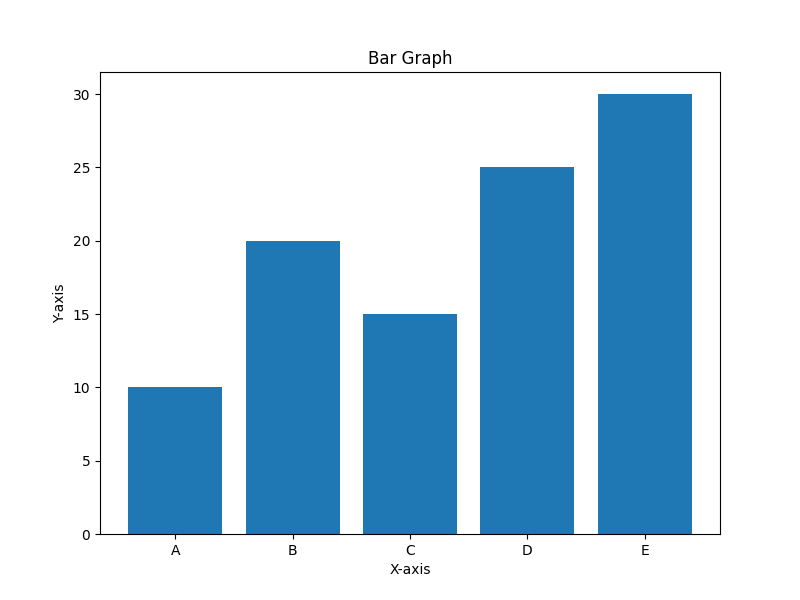
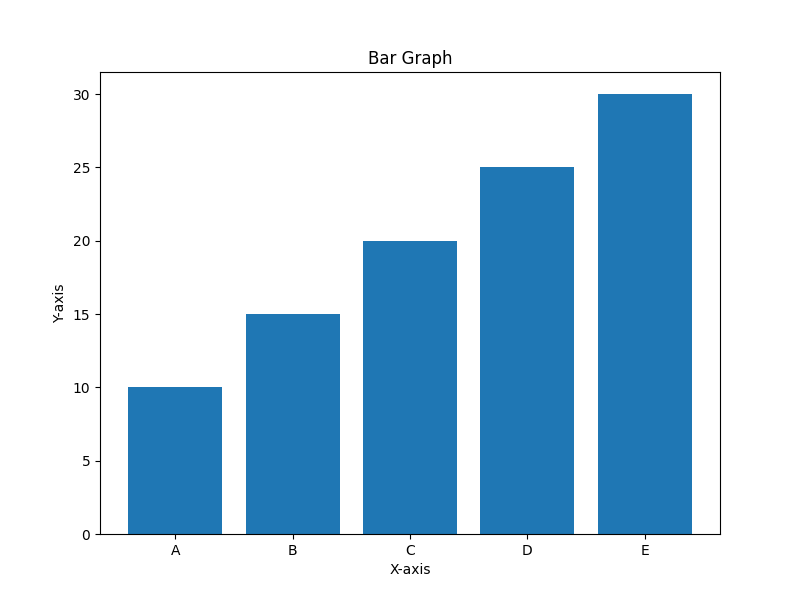
changes made

Changed region(s): [[0.2812, 0.39, 0.5938, 0.54]]

diff --git a/main/abc.py b/main/abc.py
@@ -6,10 +6,10 @@ from reportlab.pdfgen import canvas
 import cv2
 import numpy as np
 import matplotlib.pyplot as plt
+import textacy.extract
 
 # Function to extract text from graph 
 def extract_text(image_file, graph_type):
-
     text = pytesseract.image_to_string(cv2.imread(image_file))
 
     print("Extracted text:", text)
@@ -19,46 +19,49 @@ def extract_text(image_file, graph_type):
 def summarize_bar_graph(text):
     print("Summarizing bar graph...")  
 
+    # Extracting relevant information from text
+    summary_sentences = []
+
+    # Extract numerical values from the text as potential Y-axis values
+    y_axis_values = [int(val) for val in text.split() if val.isdigit()]
+
+    # Extracting categories from the text
+    categories_line = text.split("Bar Graph")[-1].split("Xaxis")[0].strip()
+    categories = [val.strip() for val in categories_line.split()]
+
+    # Check if categories and Y-axis values are extracted successfully
+    if not categories:
+        print("Error: Unable to extract categories from the graph text.")
+        return {
+            "Title": "Bar Graph Summary",
+            "Summary Sentences": ["Unable to extract categories from the graph text."],
+            "Total Sales": None
+        }
+
+    if not y_axis_values:
+        print("Error: Unable to extract valid Y-axis values from the graph text.")
+        return {
+            "Title": "Bar Graph Summary",
+            "Summary Sentences": ["Unable to extract valid Y-axis values from the graph text."],
+            "Total Sales": None
+        }
+
+    # Calculate the total sales
+    total_sales = sum(y_axis_values)
+
+    # Generate summary sentences for each category
+    for i, category in enumerate(categories):
+        summary_sentences.append(f"{category} on the Y-axis is {y_axis_values[i]}")
+
+    summary_sentences.append(f"Total Sales: {total_sales}")
+
     summary_info = {
         "Title": "Bar Graph Summary",
-        "Extracted Text": text,
+        "Summary Sentences": summary_sentences,
     }
 
     return summary_info
 
-# Function to summarize a line graph
-def summarize_line_graph(text):
-    print("Summarizing line graph...")  
-
-    summary_info = {
-        "Title": "Line Graph Summary",
-        "Extracted Text": text,
-    }
-
-    return summary_info
-
-
-# Function to summarize a scatter plot
-def summarize_scatter_plot(text):
-    print("Summarizing scatter plot...")  
-
-    summary_info = {
-        "Title": "Scatter Plot Summary",
-        "Extracted Text": text,
-    }
-
-    return summary_info
-
-# Function to summarize an area graph
-def summarize_area_graph(text):
-    print("Summarizing area graph...")  
-
-    summary_info = {
-        "Title": "Area Graph Summary",
-        "Extracted Text": text,
-    }
-
-    return summary_info
 
 # Function to generate PDF report
 def generate_pdf_report(summary_info, pdf_filename):
@@ -73,8 +76,13 @@ def generate_pdf_report(summary_info, pdf_filename):
 
     # Write the summary information to the PDF
     for key, value in summary_info.items():
-        c.drawString(100, y, f"{key}: {value}")
-        y -= 20  # Move down 20 units for the next line
+        if key == "Summary Sentences":
+            for sentence in value:
+                c.drawString(100, y, sentence)
+                y -= 20  # Move down 20 units for the next line
+        else:
+            c.drawString(100, y, f"{key}: {value}")
+            y -= 20  # Move down 20 units for the next line
 
     # Save the PDF file
     c.save()
@@ -93,16 +101,6 @@ if __name__ == "__main__":
     # Call the appropriate summarization function based on the specified graph type
     if graph_type == "bargraph":
         summary_info = summarize_bar_graph(extracted_text)
-    elif graph_type == "linegraph":
-        summary_info = summarize_line_graph(extracted_text)
-    elif graph_type == "scatterplot":
-        summary_info = summarize_scatter_plot(extracted_text)
-    elif graph_type == "areagraph":
-        summary_info = summarize_area_graph(extracted_text)
     else:
-        print("Invalid graph type. Supported types: bargraph, linegraph, scatterplot, areagraph")
-        sys.exit(1)
-
-    # Generate PDF report based on the summary information
-    generate_pdf_report(summary_info, "summary_report.pdf")
-
+        print("Invalid graph type. Supported types: bargraph")
+       

diff --git a/main/plot.py b/main/plot.py
@@ -2,12 +2,12 @@ import matplotlib.pyplot as plt
 
 # Sample data for plotting
 x = [1, 2, 3, 4, 5]
-y = [10, 20, 15, 25, 30]
+y = [10, 15, 20, 25, 30]
 # Sample data for plotting
 labels = ['A', 'B', 'C', 'D', 'E']
 sizes = [15, 30, 25, 10, 20] 
 scatter_x = [1, 2, 3, 4, 5]
-scatter_y = [10, 20, 15, 25, 30]
+scatter_y = [10, 15, 20, 25, 30]
 areas = [100, 200, 300, 400, 500]
 line_x = [1, 2, 3, 4, 5]
 line_y = [10, 15, 20, 25, 30]
@@ -21,64 +21,3 @@ plt.title('Bar Graph')
 plt.xticks(x, labels)
 plt.show()
 import matplotlib.pyplot as plt
-
-
-# Pie chart
-plt.figure(figsize=(8, 6))
-plt.pie(sizes, labels=labels, autopct='%1.1f%%')
-plt.title('Pie Chart')
-plt.savefig('pie_chart.png')  # Save the plot as an image
-plt.close()
-
-
-# Scatter plot
-plt.figure(figsize=(8, 6))
-plt.scatter(scatter_x, scatter_y, s=areas)
-plt.xlabel('X-axis')
-plt.ylabel('Y-axis')
-plt.title('Scatter Plot')
-plt.show()
-
-# Area graph
-plt.figure(figsize=(8, 6))
-plt.fill_between(line_x, line_y, color="skyblue", alpha=0.4)
-plt.plot(line_x, line_y, color="Slateblue", alpha=0.6, linewidth=2)
-plt.xlabel('X-axis')
-plt.ylabel('Y-axis')
-plt.title('Area Graph')
-plt.show()
-
-# Line chart
-plt.figure(figsize=(8, 6))
-plt.plot(line_x, line_y, marker='o')
-plt.xlabel('X-axis')
-plt.ylabel('Y-axis')
-plt.title('Line Chart')
-plt.show()
-
-import matplotlib.pyplot as plt
-
-# Data
-categories = ['Category A', 'Category B', 'Category C', 'Category D']
-values = [20, 35, 30, 25]
-
-# Method 1: Vertical Bar Graph
-plt.figure(figsize=(8, 6))
-plt.bar(categories, values, color='skyblue')
-plt.xlabel('Categories')
-plt.ylabel('Values')
-plt.title('Vertical Bar Graph')
-plt.xticks(rotation=45)
-plt.grid(True)
-plt.tight_layout()
-plt.show()
-
-# Method 2: Horizontal Bar Graph
-plt.figure(figsize=(8, 6))
-plt.barh(categories, values, color='lightgreen')
-plt.xlabel('Values')
-plt.ylabel('Categories')
-plt.title('Horizontal Bar Graph')
-plt.grid(True)
-plt.tight_layout()
-plt.show()
